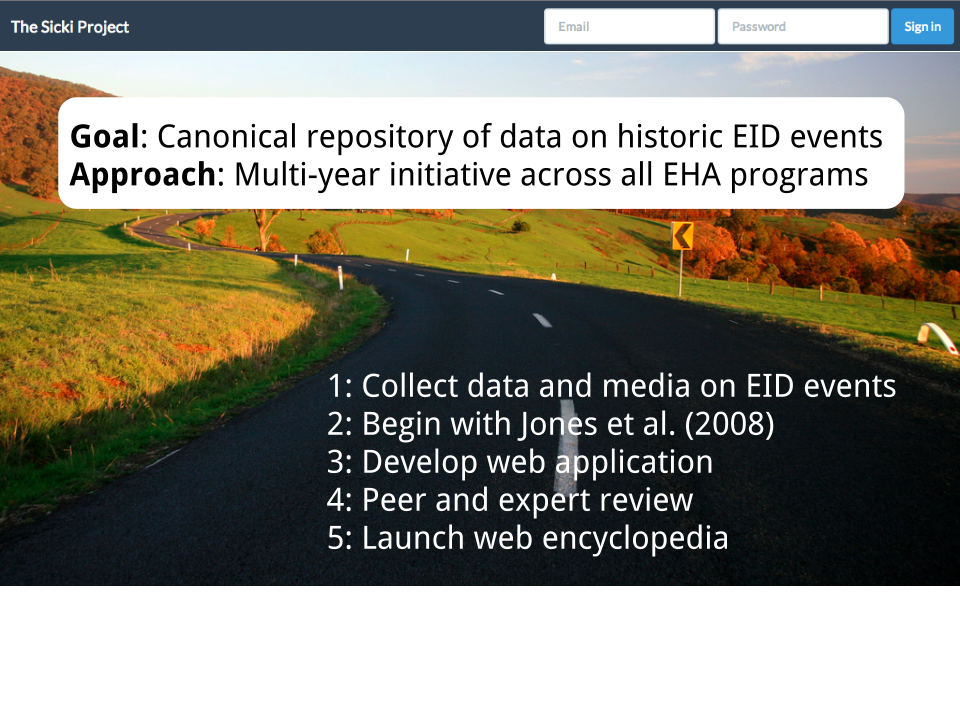
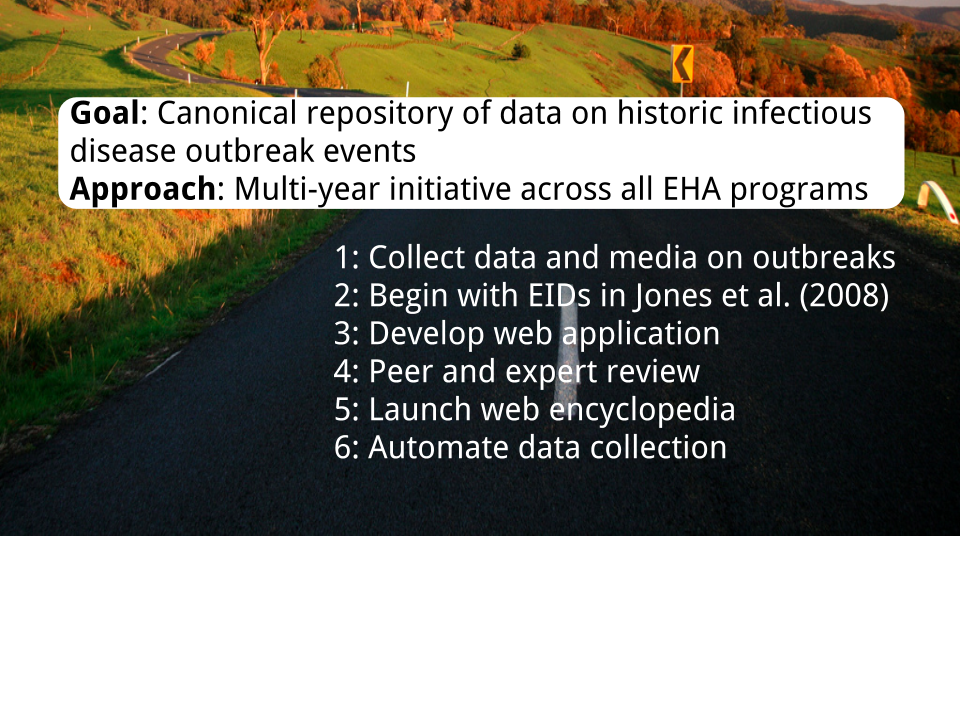
adds slide deck, tweaks deaths radius on map, adds handlebars permissions to dash tabs

diff --git a/packages/dash/lib/tabs.html b/packages/dash/lib/tabs.html
@@ -1,13 +1,14 @@
 <template name="tabPage">
 
-<div id="tabs">
+<div id="tabs" class="tabs">
   <ul>
     <li><a href="#tabs-1">Abstract</a></li>
     <li><a href="#tabs-2">Stats</a></li>
+    {{#if currentUser}}
     <li><a href="#tabs-3">Agent</a></li>
     <li><a href="#tabs-4">Location</a></li>
     <li><a href="#tabs-5">Host</a></li>
-
+    {{/if}}
   </ul>
   
   <div id="tabs-1" class="tabhigh"> <!-- abstract -->
@@ -18,60 +19,61 @@
     <table class="table table-striped table-hover">
     <tr><td> Start Date </td> <td> {{dates.startDate.valForm}}</td></tr>
     <tr><td> End Date </td> <td> {{dates.endDate.valForm}} </td></tr>
-    <tr><td> Host Age </td> <td> {{hosts.age.valQuote}} </td></tr>
-    <tr><td> Host Use </td> <td> {{hosts.use.valQuote}} </td></tr>
-    <tr><td> Transmission Model </td> <td> {{transitionModel.valQuote}} </td></tr>
+    <tr><td> Transmission Model </td> <td> {{transmissionModel.val}} </td></tr>
     <tr><td> Zoonotic Type </td> <td> {{zoonoticType.val}} </td></tr>
     <tr><td> Prevalence </td> <td> {{characteristics.prevalence.valQuote}} </td></tr>
     <tr><td> Duration </td> <td> {{dates.duration.valQuote}} </td></tr>
-    <tr><td> Host Sex </td> <td> {{hosts.hostSex.valQuote}} </td></tr>
     <tr><td> Sample Type </td> <td> {{sampleType.valQuote}} </td></tr>
     <tr><td> Driver </td> <td> {{driver.val}} </td></tr>
     <tr><td> EID Category </td> <td> {{eidCategory.Quote}} </td></tr>
     </table>
   </div>
 
+{{#if currentUser}}
 <div id="tabs-3" class="tabhigh"> <!-- agent -->
     <table class="table table-striped table-hover">
     <tr><td> Drug Resistance </td> <td> {{pathogens.pathogenDrugResistance.valQuote}} </td></tr>
-    <tr><td> Reported Name </td> <td> {{pathogens.pathogenReportedName.valQuote}} </td></tr>
-    <tr><td> Class </td> <td> {{pathogens.pathogenClass.valQuote}} </td></tr>
-    <tr><td> Family </td> <td> {{pathogens.pathogenFamily.valQuote}} </td></tr>
-    <tr><td> Species </td> <td> {{pathogens.pathogenSpecies.valQuote}} </td></tr>
-    <tr><td> Authority </td> <td> {{pathogens.pathogenAuthority.valQuote}} </td></tr>
-    <tr><td> Taxonomic Order </td> <td> {{pathogens.pathogenTaxOrder.valQuote}} </td></tr>
-    <tr><td> Genus </td> <td> {{pathogens.pathogenGenus.valQuote}} </td></tr>
-    <tr><td> Sub Species </td> <td> {{pathogens.pathogenSubSpecies.valQuote}} </td></tr>
+    <tr><td> Reported Name </td> <td> {{pathogens.reportedName.valQuote}} </td></tr>
+    <tr><td> Class </td> <td> {{pathogens.class.valQuote}} </td></tr>
+    <tr><td> Family </td> <td> {{pathogens.family.valQuote}} </td></tr>
+    <tr><td> Species </td> <td> {{pathogens.species.valQuote}} </td></tr>
+    <tr><td> Authority </td> <td> {{pathogens.authority.valQuote}} </td></tr>
+    <tr><td> Taxonomic Order </td> <td> {{pathogens.taxOrder.valQuote}} </td></tr>
+    <tr><td> Genus </td> <td> {{pathogens.genus.valQuote}} </td></tr>
+    <tr><td> Sub Species </td> <td> {{pathogens.subSpecies.valQuote}} </td></tr>
     </table>
   </div>
 
   <div id="tabs-4" class="tabhigh"> <!-- location -->
     <table class="table table-striped table-hover">
-    <tr><td> Location Name </td> <td> {{location.locationLocationName.valQuote}} </td></tr>
-    <tr><td> Place Name </td> <td> {{location.locationPlaceName.valQuote}} </td></tr>
-    <tr><td> Latitude </td> <td> {{location.locationLatitude.valQuote}} </td></tr>
-    <tr><td> Longitute </td> <td> {{location.locationLongitude.valQuote}} </td></tr>
-    <tr><td> City </td> <td> {{location.locationCity.valQuote}} </td></tr>
-    <tr><td> Subnational Region </td> <td> {{location.locationSubnationalRegion.valQuote}} </td></tr>
-    <tr><td> Nation </td> <td> {{location.locationNation.valQuote}} </td></tr>
-    <tr><td> Continent </td> <td> {{location.locationContinent.valQuote}} </td></tr>
+    <tr><td> Location Name </td> <td> {{locations.locationName.valQuote}} </td></tr>
+    <tr><td> Place Name </td> <td> {{locations.placeName.valQuote}} </td></tr>
+    <tr><td> Latitude </td> <td> {{locations.latitude.valQuote}} </td></tr>
+    <tr><td> Longitute </td> <td> {{locations.longitude.valQuote}} </td></tr>
+    <tr><td> City </td> <td> {{locations.city.valQuote}} </td></tr>
+    <tr><td> Subnational Region </td> <td> {{locations.subnationalRegion.valQuote}} </td></tr>
+    <tr><td> Nation </td> <td> {{locations.nation.valQuote}} </td></tr>
+    <tr><td> Continent </td> <td> {{locations.continent.valQuote}} </td></tr>
     </table>
   </div>
 
   <div id="tabs-5" class="tabhigh"> <!-- host -->
     <table class="table table-striped table-hover">
-    <tr><td> Domestication Status </td> <td> {{host.domesticationStatus.valQuote}} </td></tr>
-    <tr><td> Reported Name </td> <td> {{host.hostReportedName.valQuote}} </td></tr>
-    <tr><td> Class </td> <td> {{host.hostClass.valQuote}} </td></tr>
-    <tr><td> Family </td> <td> {{host.hostFamily.valQuote}} </td></tr>
-    <tr><td> Species </td> <td> {{host.hostSpecies.valQuote}} </td></tr>
-    <tr><td> Authority </td> <td> {{host.hostAuthority.valQuote}} </td></tr>
-    <tr><td> Taxonomic Order </td> <td> {{host.hostTaxOrder.valQuote}} </td></tr>
-    <tr><td> Genus </td> <td> {{host.hostGenus.valQuote}} </td></tr>
-    <tr><td> Sub Species </td> <td> {{host.hostSubSpecies.valQuote}} </td></tr>
+    <tr><td> Domestication Status </td> <td> {{hosts.domesticationStatus.valQuote}} </td></tr>
+    <tr><td> Host Age </td> <td> {{hosts.age.val}} </td></tr>
+    <tr><td> Host Sex </td> <td> {{hosts.sex.valQuote}} </td></tr>
+    <tr><td> Host Use </td> <td> {{hosts.hostUse.valQuote}} </td></tr>
+    <tr><td> Reported Name </td> <td> {{hosts.reportedName.valQuote}} </td></tr>
+    <tr><td> Class </td> <td> {{hosts.class.valQuote}} </td></tr>
+    <tr><td> Family </td> <td> {{hosts.family.valQuote}} </td></tr>
+    <tr><td> Species </td> <td> {{hosts.species.valQuote}} </td></tr>
+    <tr><td> Authority </td> <td> {{hosts.authority.valQuote}} </td></tr>
+    <tr><td> Taxonomic Order </td> <td> {{hosts.taxOrder.valQuote}} </td></tr>
+    <tr><td> Genus </td> <td> {{hosts.genus.valQuote}} </td></tr>
+    <tr><td> Sub Species </td> <td> {{hosts.subSpecies.valQuote}} </td></tr>
     </table>
   </div>
-
+{{/if}}
 
 </div>
 </template>

diff --git a/client/views/pages/about.html b/client/views/pages/about.html
@@ -7,8 +7,17 @@
       <ol class="carousel-indicators">
         <li data-target="#myCarousel" data-slide-to="0" class="active"></li>
         <li data-target="#myCarousel" data-slide-to="1"></li>
+        <li data-target="#myCarousel" data-slide-to="2"></li>
         <li data-target="#myCarousel" data-slide-to="3"></li>
         <li data-target="#myCarousel" data-slide-to="4"></li>
+        <li data-target="#myCarousel" data-slide-to="5"></li>
+        <li data-target="#myCarousel" data-slide-to="6"></li>
+        <li data-target="#myCarousel" data-slide-to="7"></li>
+        <li data-target="#myCarousel" data-slide-to="8"></li>
+        <li data-target="#myCarousel" data-slide-to="9"></li>
+        <li data-target="#myCarousel" data-slide-to="10"></li>
+
+
       </ol>
       <div class="carousel-inner">
         <div class="item active">
@@ -44,7 +53,76 @@
             </div>
           </div>
         </div>
+
+      <div class="item">
+          <img src="sicki_slide_5.png" alt="">
+          <div class="container">
+            <div class="carousel-caption">
+             <p><a class="btn btn-lg btn-primary" href="{{pathFor 'ascendingReferences'}}" role="button">See Contributors</a></p>
+            </div>
+          </div>
+        </div>
+
+      <div class="item">
+          <img src="sicki_slide_5a.png" alt="">
+          <div class="container">
+            <div class="carousel-caption">
+             <p><a class="btn btn-lg btn-primary" href="{{pathFor 'ascendingReferences'}}" role="button">See Contributors</a></p>
+            </div>
+          </div>
+        </div>
+
+       <div class="item">
+          <img src="sicki_slide_6.png" alt="">
+          <div class="container">
+            <div class="carousel-caption">
+             <p><a class="btn btn-lg btn-primary" href="{{pathFor 'ascendingReferences'}}" role="button">See Contributors</a></p>
+            </div>
+          </div>
+        </div>
+
+       <div class="item">
+          <img src="sicki_slide_6a.png" alt="">
+          <div class="container">
+            <div class="carousel-caption">
+             <p><a class="btn btn-lg btn-primary" href="{{pathFor 'ascendingReferences'}}" role="button">See Contributors</a></p>
+            </div>
+          </div>
+        </div>
+
+
+       <div class="item">
+          <img src="sicki_slide_7.png" alt="">
+          <div class="container">
+            <div class="carousel-caption">
+             <p><a class="btn btn-lg btn-primary" href="{{pathFor 'ascendingReferences'}}" role="button">See Contributors</a></p>
+            </div>
+          </div>
+        </div>
+
+       <div class="item">
+          <img src="sicki_slide_7a.png" alt="">
+          <div class="container">
+            <div class="carousel-caption">
+             <p><a class="btn btn-lg btn-primary" href="{{pathFor 'ascendingReferences'}}" role="button">See Contributors</a></p>
+            </div>
+          </div>
+        </div>
+
+       <div class="item">
+          <img src="sicki_slide_8.png" alt="">
+          <div class="container">
+            <div class="carousel-caption">
+             <p><a class="btn btn-lg btn-primary" href="{{pathFor 'ascendingReferences'}}" role="button">See Contributors</a></p>
+            </div>
+          </div>
+        </div>
+
+
+
       </div>
+
+
       <a class="left carousel-control" href="#myCarousel" data-slide="prev"><span class="glyphicon glyphicon-chevron-left"></span></a>
       <a class="right carousel-control" href="#myCarousel" data-slide="next"><span class="glyphicon glyphicon-chevron-right"></span></a>
     </div><!-- /.carousel -->

diff --git a/packages/dash/lib/dash.html b/packages/dash/lib/dash.html
@@ -39,11 +39,18 @@
 								<div class="row">
 									<h2 class="label"> Disease: </h2>
 									<h2 class="value"> 
-										{{#if disease.valQuote}}
-											{{disease.valQuote}}
-										{{else}}
+										{{#if disease.val}}
 											{{disease.val}}
+										{{else}}
+											{{disease.valQuote}}
 										{{/if}} 
+									</h2>
+								</div>
+								
+								<div class="row">
+									<h2 class="label"> ICD-10: </h2>
+									<h2 class="value"> 
+										{{disease.icd10}}
 									</h2>
 								</div>
 
@@ -81,7 +88,7 @@
 				
 						{{#each refLink}}
                           {{> referencesListItem}}
-                        {{/each}} 
+                        {{/each}}
 
 			</div>
 

diff --git a/packages/dash/lib/map_one_test.js b/packages/dash/lib/map_one_test.js
@@ -15,7 +15,7 @@ Template.mapOneTest.rendered = function() {
 			/* set outcome */
 			var deaths = 20;
 			try {
-				deaths = parseInt(self.data.characteristics.numberOfDeaths.val, 10) || 20;
+				deaths = parseInt(self.data.characteristics.numberOfDeaths.val, 10) || 2;
 			} catch (e) {
 				// no number of deaths
 			}
@@ -28,7 +28,7 @@ Template.mapOneTest.rendered = function() {
 			/* Generate path */
 			var path = d3.geo.path()
 							 .projection(projection)
-							 .pointRadius(Math.sqrt(parseInt(deaths) * 10));
+							 .pointRadius(Math.sqrt(parseInt(deaths) * 4));
 
 			/* create SVG element */
 			var svg = d3.select("#mapOne")

diff --git a/client/stylesheets/style.css b/client/stylesheets/style.css
@@ -7,7 +7,8 @@ p {
 }
 
 .grid-block, .main, .entry, .comments li, .comment-form {
-  background: #4682B4; /*steelblue*/
+  /*background: #4682B4; */ /*steelblue*/
+  background: #ecf0f1; /* jumbotron */
   /*background: #B0C4DE; */ /*light steelblue*/
   -webkit-border-radius: 3px;
   -moz-border-radius: 3px;
@@ -62,4 +63,8 @@ p {
     display: block;
     float: right;
     margin-top: 7px;
+}
+
+.tabs td {
+    text-transform: capitalize;
 }

diff --git a/packages/dash/lib/dash.css b/packages/dash/lib/dash.css
@@ -154,7 +154,7 @@ h2.eid{
 
 #info h2.value{
 	font-size: 24px; 
-	color: #c0d8f1;
+	color: #18bc9c;
 	display: inline;
 	text-transform: capitalize;
 }

diff --git a/packages/dash/lib/tabs.js b/packages/dash/lib/tabs.js
@@ -1,3 +1,4 @@
 Template.tabPage.rendered = function() {
+	console.log(this)
     $( "#tabs" ).tabs();
 }
